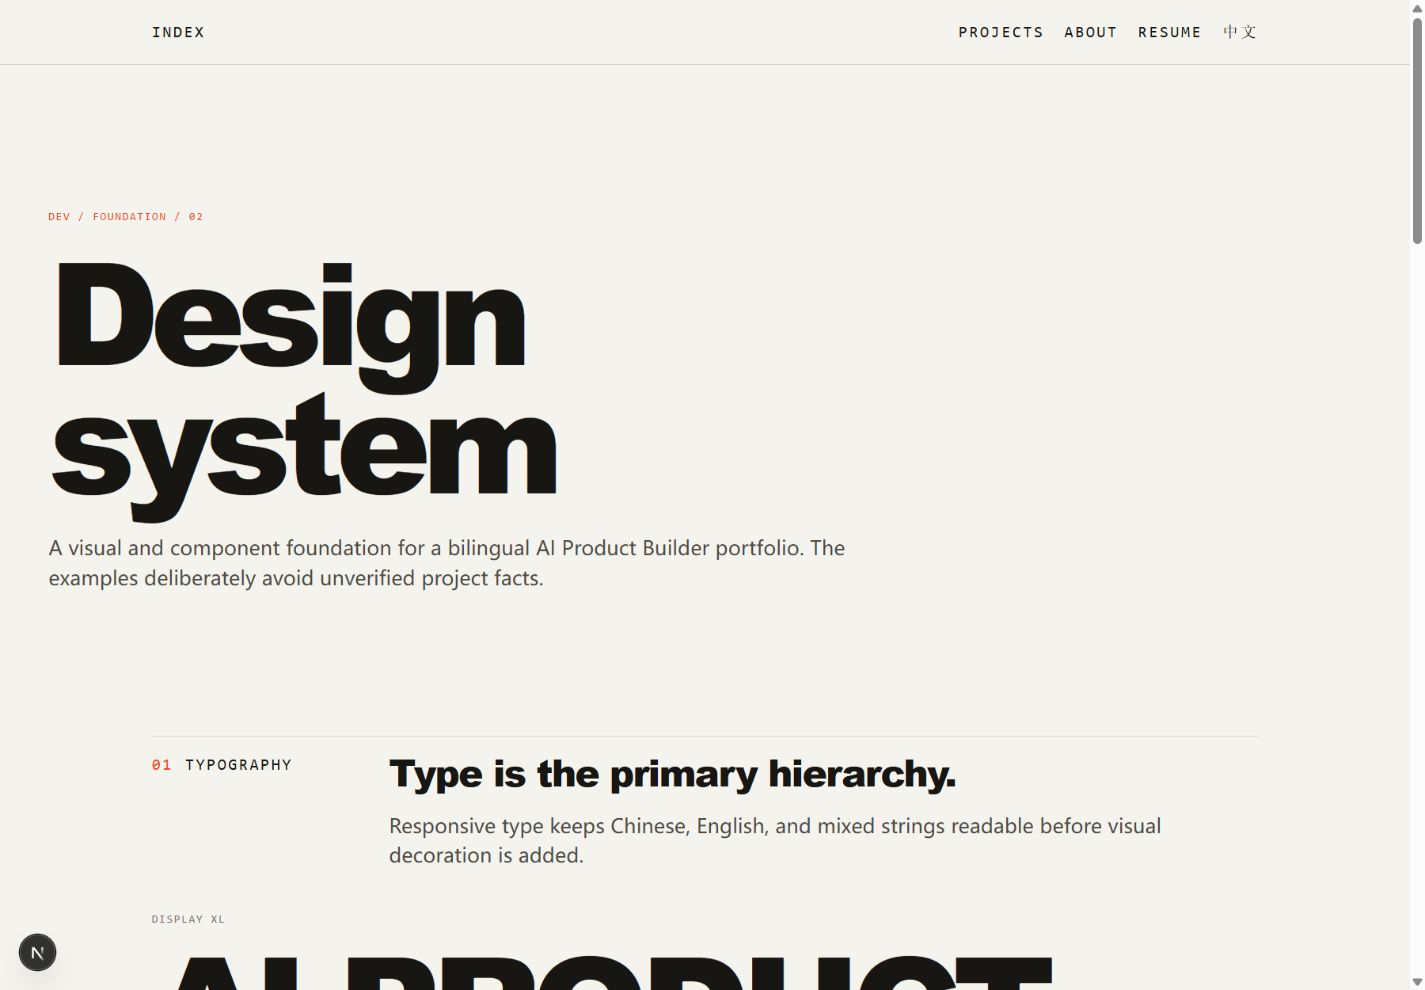
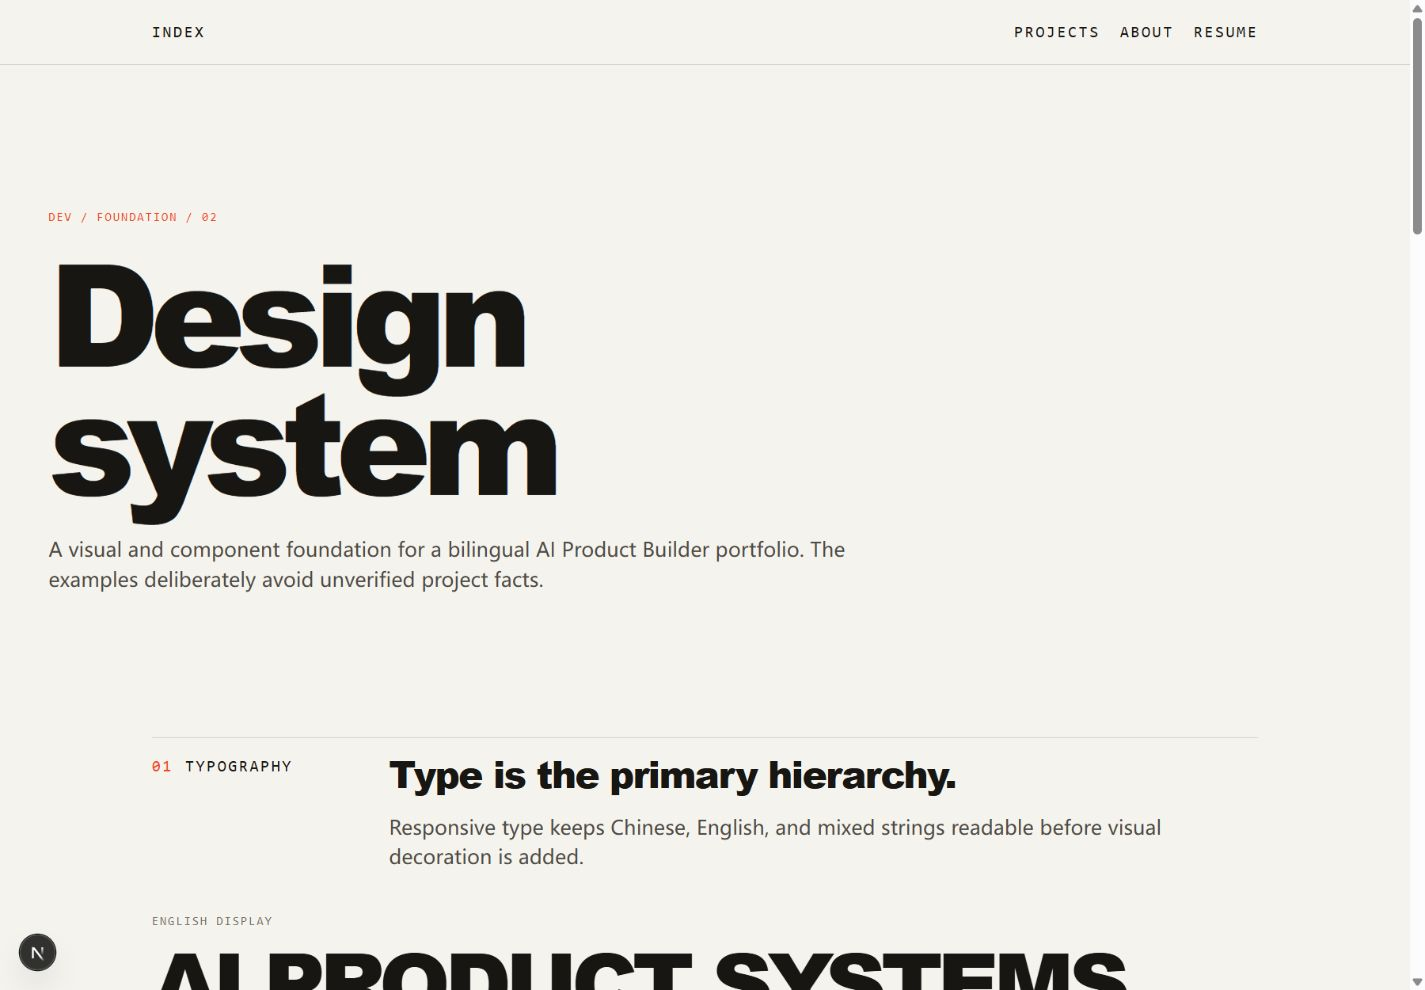
refactor: refine portfolio design system

diff --git a/app/dev/design-system/page.tsx b/app/dev/design-system/page.tsx
@@ -22,11 +22,11 @@ export const metadata: Metadata = {
 };
 
 const typeRows = [
-  ["Display XL", "type-display-xl", "AI PRODUCT"],
-  ["Display", "type-display", "SYSTEMS"],
-  ["H1", "type-h1", "Structured evidence"],
-  ["H2", "type-h2", "中文与 English together"],
-  ["H3", "type-h3", "Archive item title"],
+  ["English Display", "type-display", "AI PRODUCT SYSTEMS", "en"],
+  ["Chinese Display", "type-display", "设计智能服务系统", "zh-CN"],
+  ["Mixed Display", "type-display", "AI 产品与 Product Systems", "zh-CN"],
+  ["English Label", "type-label", "ARCHIVE / STATUS / LOCALE", "en"],
+  ["Chinese Label", "type-label", "项目档案 / 状态 / 语言", "zh-CN"],
 ] as const;
 
 export default function DesignSystemPage() {
@@ -35,7 +35,7 @@ export default function DesignSystemPage() {
       <a className="skip-link" href="#main-content">
         Skip to main content
       </a>
-      <SiteHeader dictionary={enDictionary} locale="en" />
+      <SiteHeader dictionary={enDictionary} locale="en" showLanguageSwitch={false} />
       <main id="main-content">
         <WideContainer className="py-[var(--space-section)]">
           <p className="type-label text-[var(--accent)]">DEV / FOUNDATION / 02</p>
@@ -55,12 +55,14 @@ export default function DesignSystemPage() {
               title="Type is the primary hierarchy."
             />
             <div className="mt-10 space-y-8">
-              {typeRows.map(([label, className, sample]) => (
+              {typeRows.map(([label, className, sample, language]) => (
                 <div className="border-b border-[var(--border)] pb-6" key={label}>
                   <p className="type-label mb-3 text-[var(--foreground-muted)]">
                     {label}
                   </p>
-                  <p className={className}>{sample}</p>
+                  <p className={className} lang={language}>
+                    {sample}
+                  </p>
                 </div>
               ))}
               <p className="type-body-large">
@@ -112,6 +114,32 @@ export default function DesignSystemPage() {
                   <p className="type-label">--{token}</p>
                 </div>
               ))}
+            </div>
+            <div className="mt-6 grid gap-3 border-t border-[var(--border)] pt-4 md:grid-cols-3">
+              <div className="border border-[var(--border)] p-4">
+                <p className="type-label text-[var(--accent-signal)]">
+                  Signal / Status
+                </p>
+                <p className="mt-3 text-[var(--foreground-secondary)]">
+                  A controlled cue for active or important state.
+                </p>
+              </div>
+              <div className="border border-[var(--border)] p-4">
+                <p className="type-label text-[var(--accent-interactive)]">
+                  Interactive
+                </p>
+                <p className="mt-3 text-[var(--foreground-secondary)]">
+                  Link hover, active navigation, selected control.
+                </p>
+              </div>
+              <div className="border border-[var(--border)] p-4">
+                <p className="type-label text-[var(--accent-action)]">
+                  High-commit Action
+                </p>
+                <p className="mt-3 text-[var(--foreground-secondary)]">
+                  A small-area choice reserved for an important action.
+                </p>
+              </div>
             </div>
           </section>
 

diff --git a/components/navigation/site-navigation.tsx b/components/navigation/site-navigation.tsx
@@ -10,11 +10,16 @@ import type { Dictionary, Locale } from "@/types/content";
 interface SiteNavigationProps {
   dictionary: Dictionary;
   locale: Locale;
+  showLanguageSwitch?: boolean;
 }
 
 const focusableSelector = "a[href], button:not([disabled])";
 
-export function SiteNavigation({ dictionary, locale }: SiteNavigationProps) {
+export function SiteNavigation({
+  dictionary,
+  locale,
+  showLanguageSwitch = true,
+}: SiteNavigationProps) {
   const [isOpen, setIsOpen] = useState(false);
   const buttonRef = useRef<HTMLButtonElement>(null);
   const menuRef = useRef<HTMLElement>(null);
@@ -72,7 +77,7 @@ export function SiteNavigation({ dictionary, locale }: SiteNavigationProps) {
         return (
           <Link
             aria-current={active ? "page" : undefined}
-            className={`font-mono tracking-[var(--tracking-label)] text-[var(--type-label)] uppercase transition-[color,transform] duration-[var(--motion-fast)] ease-[var(--ease-standard)] hover:text-[var(--accent-hover)] active:translate-y-px ${active ? "text-[var(--accent)]" : "text-[var(--foreground)]"} ${mobile ? "py-3 text-base" : ""}`}
+            className={`font-mono tracking-[var(--tracking-label)] text-[var(--type-label)] uppercase transition-[color,transform] duration-[var(--motion-fast)] ease-[var(--ease-standard)] hover:text-[var(--accent-interactive-hover)] active:translate-y-px ${active ? "text-[var(--accent-interactive)]" : "text-[var(--foreground)]"} ${mobile ? "py-3 text-base" : ""}`}
             href={item.href}
             key={item.href}
             onClick={() => mobile && setIsOpen(false)}
@@ -81,11 +86,13 @@ export function SiteNavigation({ dictionary, locale }: SiteNavigationProps) {
           </Link>
         );
       })}
-      <LanguageSwitch
-        className={mobile ? "py-3 text-base" : ""}
-        label={dictionary.navigation.language}
-        locale={locale}
-      />
+      {showLanguageSwitch ? (
+        <LanguageSwitch
+          className={mobile ? "py-3 text-base" : ""}
+          label={dictionary.navigation.language}
+          locale={locale}
+        />
+      ) : null}
     </>
   );
 

diff --git a/components/layout/site-header.tsx b/components/layout/site-header.tsx
@@ -7,19 +7,28 @@ import type { Dictionary, Locale } from "@/types/content";
 interface SiteHeaderProps {
   locale: Locale;
   dictionary: Dictionary;
+  showLanguageSwitch?: boolean;
 }
 
-export function SiteHeader({ locale, dictionary }: SiteHeaderProps) {
+export function SiteHeader({
+  locale,
+  dictionary,
+  showLanguageSwitch = true,
+}: SiteHeaderProps) {
   return (
     <header className="sticky top-0 z-50 border-b border-[var(--border)] bg-[var(--background)]">
       <Container className="flex min-h-[4.0625rem] items-center justify-between gap-6">
         <Link
-          className="font-mono tracking-[var(--tracking-label)] text-[var(--type-label)] uppercase transition-[color,transform] duration-[var(--motion-fast)] ease-[var(--ease-standard)] hover:text-[var(--accent-hover)] active:translate-y-px"
+          className="font-mono tracking-[var(--tracking-label)] text-[var(--type-label)] uppercase transition-[color,transform] duration-[var(--motion-fast)] ease-[var(--ease-standard)] hover:text-[var(--accent-interactive-hover)] active:translate-y-px"
           href={`/${locale}`}
         >
           Index
         </Link>
-        <SiteNavigation dictionary={dictionary} locale={locale} />
+        <SiteNavigation
+          dictionary={dictionary}
+          locale={locale}
+          showLanguageSwitch={showLanguageSwitch}
+        />
       </Container>
     </header>
   );

diff --git a/components/ui/text-link.tsx b/components/ui/text-link.tsx
@@ -13,7 +13,7 @@ export function TextLink({
 }: TextLinkProps) {
   return (
     <Link
-      className={`inline-flex items-center gap-2 border-b border-current pb-1 font-mono tracking-[var(--tracking-label)] text-[var(--foreground)] text-[var(--type-label)] uppercase transition-[color,transform] duration-[var(--motion-fast)] ease-[var(--ease-standard)] hover:text-[var(--accent-hover)] active:translate-y-px ${className}`}
+      className={`inline-flex items-center gap-2 border-b border-current pb-1 font-mono tracking-[var(--tracking-label)] text-[var(--foreground)] text-[var(--type-label)] uppercase transition-[color,transform] duration-[var(--motion-fast)] ease-[var(--ease-standard)] hover:text-[var(--accent-interactive-hover)] active:translate-y-px ${className}`}
       {...props}
     >
       {children}

diff --git a/components/navigation/language-switch.tsx b/components/navigation/language-switch.tsx
@@ -22,7 +22,7 @@ export function LanguageSwitch({ locale, label, className = "" }: LanguageSwitch
   return (
     <Link
       aria-label={`Switch language to ${label}`}
-      className={`font-mono tracking-[var(--tracking-label)] text-[var(--foreground)] text-[var(--type-label)] uppercase transition-[color,transform] duration-[var(--motion-fast)] ease-[var(--ease-standard)] hover:text-[var(--accent-hover)] active:translate-y-px ${className}`}
+      className={`font-mono tracking-[var(--tracking-label)] text-[var(--foreground)] text-[var(--type-label)] uppercase transition-[color,transform] duration-[var(--motion-fast)] ease-[var(--ease-standard)] hover:text-[var(--accent-interactive-hover)] active:translate-y-px ${className}`}
       href={href}
       lang={alternateLocale}
     >

diff --git a/components/ui/button.tsx b/components/ui/button.tsx
@@ -18,10 +18,11 @@ interface ButtonLinkProps extends SharedButtonProps {
 
 const variants: Record<ButtonVariant, string> = {
   primary:
-    "bg-[var(--accent)] text-[var(--accent-foreground)] hover:bg-[var(--accent-hover)]",
+    "bg-[var(--accent-action)] text-[var(--accent-foreground)] hover:bg-[var(--accent-hover)]",
   secondary:
     "border border-[var(--border-strong)] bg-transparent text-[var(--foreground)] hover:border-[var(--foreground)]",
-  quiet: "bg-transparent text-[var(--foreground)] hover:text-[var(--accent-hover)]",
+  quiet:
+    "bg-transparent text-[var(--foreground)] hover:text-[var(--accent-interactive-hover)]",
 };
 
 const shared =

diff --git a/components/ui/status-label.tsx b/components/ui/status-label.tsx
@@ -19,7 +19,7 @@ export function StatusLabel({ dictionary, status }: StatusLabelProps) {
     <span className="inline-flex items-center gap-2 font-mono tracking-[var(--tracking-label)] text-[var(--foreground-muted)] text-[var(--type-label)] uppercase">
       <span
         aria-hidden="true"
-        className={`h-1.5 w-1.5 rounded-full ${status === "ready" ? "bg-[var(--accent)]" : "bg-[var(--border-strong)]"}`}
+        className={`h-1.5 w-1.5 rounded-full ${status === "ready" ? "bg-[var(--accent-signal)]" : "bg-[var(--border-strong)]"}`}
       />
       {dictionary.shell[labelKey[status]]}
     </span>

diff --git a/styles/tokens.css b/styles/tokens.css
@@ -11,6 +11,10 @@
   --accent: #f04a24;
   --accent-hover: #c93617;
   --accent-foreground: #171613;
+  --accent-signal: var(--accent);
+  --accent-interactive: var(--accent);
+  --accent-interactive-hover: var(--accent-hover);
+  --accent-action: var(--accent);
   --inverse-background: #171613;
   --inverse-foreground: #f5f3ee;
 
@@ -28,7 +32,7 @@
   --type-body: 1rem;
   --type-body-small: 0.875rem;
   --type-meta: 0.75rem;
-  --type-label: 0.6875rem;
+  --type-label: 0.75rem;
 
   --leading-display: 0.9;
   --leading-heading: 1.04;

diff --git a/app/globals.css b/app/globals.css
@@ -110,6 +110,22 @@ a {
   letter-spacing: var(--tracking-label);
 }
 
+.type-display-xl:lang(zh),
+.type-display:lang(zh),
+.type-h1:lang(zh),
+.type-h2:lang(zh),
+.type-h3:lang(zh) {
+  letter-spacing: -0.025em;
+}
+
+.type-meta:lang(zh),
+.type-label:lang(zh),
+.type-mono-label:lang(zh),
+.skip-link:lang(zh) {
+  letter-spacing: 0.06em;
+  text-transform: none;
+}
+
 .motion-fade {
   transition:
     opacity var(--motion-normal) var(--ease-standard),

diff --git a/docs/DESIGN-SYSTEM.md b/docs/DESIGN-SYSTEM.md
@@ -12,18 +12,32 @@
 
 The source of truth is `styles/tokens.css`.
 
-| Group    | Tokens                                                                                        | Intended use                                                     |
-| -------- | --------------------------------------------------------------------------------------------- | ---------------------------------------------------------------- |
-| Canvas   | `--background`, `--background-secondary`, `--surface`                                         | Reading field, alternate section, contained content              |
-| Ink      | `--foreground`, `--foreground-secondary`, `--foreground-muted`                                | Primary, supporting, and metadata text                           |
-| Boundary | `--border`, `--border-strong`                                                                 | Editorial dividers and stronger controls                         |
-| Signal   | `--accent: #F04A24`, `--accent-hover`, `--accent-foreground`                                  | Index, active state, link feedback, status point, small emphasis |
-| Inverse  | `--inverse-background`, `--inverse-foreground`                                                | Footer and high-contrast utility surface                         |
-| Rhythm   | `--space-1` through `--space-32`, `--space-section`, `--space-macro`                          | Micro, component, section, and narrative spacing                 |
-| Geometry | `--container-page`, `--container-wide`, `--container-reading`, `--edge-padding`, `--grid-gap` | Shared horizontal anchors and measures                           |
-| Motion   | `--motion-fast`, `--motion-normal`, `--motion-slow`, `--ease-standard`, `--ease-out`          | Explicit, purpose-specific transitions                           |
+| Group        | Tokens                                                                                        | Intended use                                                      |
+| ------------ | --------------------------------------------------------------------------------------------- | ----------------------------------------------------------------- |
+| Canvas       | `--background`, `--background-secondary`, `--surface`                                         | Reading field, alternate section, contained content               |
+| Ink          | `--foreground`, `--foreground-secondary`, `--foreground-muted`                                | Primary, supporting, and metadata text                            |
+| Boundary     | `--border`, `--border-strong`                                                                 | Editorial dividers and stronger controls                          |
+| Signal       | `--accent: #F04A24`, `--accent-hover`, `--accent-foreground`                                  | Single replaceable orange source and accessible foreground        |
+| Orange roles | `--accent-signal`, `--accent-interactive`, `--accent-interactive-hover`, `--accent-action`    | Status, interaction feedback, and rare high-commit action aliases |
+| Inverse      | `--inverse-background`, `--inverse-foreground`                                                | Footer and high-contrast utility surface                          |
+| Rhythm       | `--space-1` through `--space-32`, `--space-section`, `--space-macro`                          | Micro, component, section, and narrative spacing                  |
+| Geometry     | `--container-page`, `--container-wide`, `--container-reading`, `--edge-padding`, `--grid-gap` | Shared horizontal anchors and measures                            |
+| Motion       | `--motion-fast`, `--motion-normal`, `--motion-slow`, `--ease-standard`, `--ease-out`          | Explicit, purpose-specific transitions                            |
 
 Signal Orange is intentionally not a large background or white-text button color. Its text foreground is near-black because white does not meet normal-text contrast requirements on this orange.
+
+### Signal Orange Roles
+
+The aliases currently resolve to the same replaceable Signal Orange source. They express semantic intent without creating a second brand palette.
+
+| Role               | Use                                                        | Rule                                                     |
+| ------------------ | ---------------------------------------------------------- | -------------------------------------------------------- |
+| Signal / Status    | Important state, active status point, controlled index cue | Small, textual or icon-scale only                        |
+| Interactive        | Active navigation, selected control, link hover            | Feedback, not permanent decoration                       |
+| High-commit Action | One important, owner-approved action in a context          | Rare and small-area. It is not the default CTA treatment |
+
+**Do:** use orange sparsely, semantically, with contrast, and only when the reader benefits from emphasis.
+**Do not:** flood section backgrounds, set body copy in orange, make every CTA orange, add decorative orange marks, or create orange tags everywhere.
 
 ## 3. Typography System
 
@@ -40,9 +54,19 @@ The system uses local system fonts for resilient Chinese coverage and zero font-
 | Body       | body default                            | `1rem`                             | normal / 1.6     | Reading copy                       |
 | Body Small | `--type-body-small`                     | `0.875rem`                         | normal / 1.6     | Supporting copy                    |
 | Meta       | `.type-meta`                            | `0.75rem`                          | mono / normal    | Quiet metadata                     |
-| Label      | `.type-label`                           | `0.6875rem`                        | mono / normal    | Index and controlled labels        |
+| Label      | `.type-label`                           | `0.75rem`                          | mono / normal    | Essential metadata and labels      |
 
-Display negative tracking is limited to display/heading classes. `text-wrap: balance` avoids fragile line lengths for mixed Chinese and English titles.
+### Locale-aware tracking
+
+One typography role does not imply identical tracking in every script. The system keeps a compact Latin editorial display treatment while protecting Chinese glyph rhythm and mixed-script wrapping with minimal `:lang(zh)` overrides.
+
+| Context         | Display / heading                                                                                       | Label / technical metadata                                        | Implementation                                               |
+| --------------- | ------------------------------------------------------------------------------------------------------- | ----------------------------------------------------------------- | ------------------------------------------------------------ |
+| Latin / English | `--tracking-display` and `--tracking-heading` remain tight; labels retain uppercase controlled tracking | Mono label uses `--tracking-label`                                | Default classes on an English-language element               |
+| Chinese         | Display/heading tracking is relaxed to `-0.025em`; no forced uppercase                                  | Label tracking is reduced to `0.06em`; no forced uppercase        | `:lang(zh)` selectors                                        |
+| Mixed script    | Use the page locale as the base; apply `lang="en"` only to a separately meaningful English label/value  | Do not add artificial spaces merely to imitate uppercase metadata | Semantic `lang` attributes, not duplicate typography classes |
+
+`text-wrap: balance` remains available on display levels. The 12px Label floor applies to recruiter-facing status, navigation, category, and metadata. Smaller type is reserved for nonessential decorative index or micro annotation.
 
 ## 4. Layout System
 
@@ -82,7 +106,21 @@ Display negative tracking is limited to display/heading classes. `text-wrap: bal
 
 No parallax, particles, continuous ambient animation, WebGL, or keyboard-initiated animation is part of the system.
 
-## 8. Accessibility Notes
+## 8. Future Media-frame Contract
+
+Media treatment follows content type. A Case Study may combine variants; the system must not force every asset into one rounded browser-card treatment.
+
+| Variant                        | Suitable content                                                        | Contract                                                                               |
+| ------------------------------ | ----------------------------------------------------------------------- | -------------------------------------------------------------------------------------- |
+| Contained UI Frame             | Product UI, website screenshot, app screen                              | Neutral containment, clear hairline boundary, optional caption                         |
+| Flush Industrial Render        | Industrial design, product render, physical object                      | Image-led presentation with minimal UI chrome; no forced browser frame                 |
+| Readable Diagram Surface       | Service blueprint, workflow, journey, AI architecture, research diagram | Neutral readable surface, responsive width and future zoom/accessibility consideration |
+| Bleedable Poster / Visual Work | Poster, branding, graphic output                                        | Edge-to-edge, visual-first treatment when source aspect ratio warrants it              |
+| Video / Motion Media           | Demonstration, walkthrough, motion output                               | Poster image, declared aspect ratio, caption, and controlled playback                  |
+
+This is a component contract only. No Case Study media component, content claim, or unapproved project image is introduced in Phase 2.
+
+## 9. Accessibility Notes
 
 - Page structure uses header, nav, main, section/article, and footer landmarks.
 - A skip link targets `#main-content`; focus-visible uses the accent outline.
@@ -91,7 +129,7 @@ No parallax, particles, continuous ambient animation, WebGL, or keyboard-initiat
 - Status uses text in addition to a colored point.
 - Contrast test: `#F04A24` against `#171613` is approximately 5.0:1 and passes normal text. White against `#F04A24` is approximately 3.6:1 and is not used as normal text.
 
-## 9. Component Usage Examples
+## 10. Component Usage Examples
 
 ```tsx
 <SectionHeader
@@ -109,4 +147,4 @@ No parallax, particles, continuous ambient animation, WebGL, or keyboard-initiat
 />
 ```
 
-The local preview route is `/dev/design-system`. It is intentionally `noindex` and includes token, type, component, status, bilingual project-title, archive, and profile-foundation stress tests.
+The local preview route is `/dev/design-system`. It is intentionally `noindex`, hides LanguageSwitch because it is not a locale route, and includes token, English/Chinese/mixed typography, 12px label, orange-role, status, archive, and profile-foundation stress tests.
